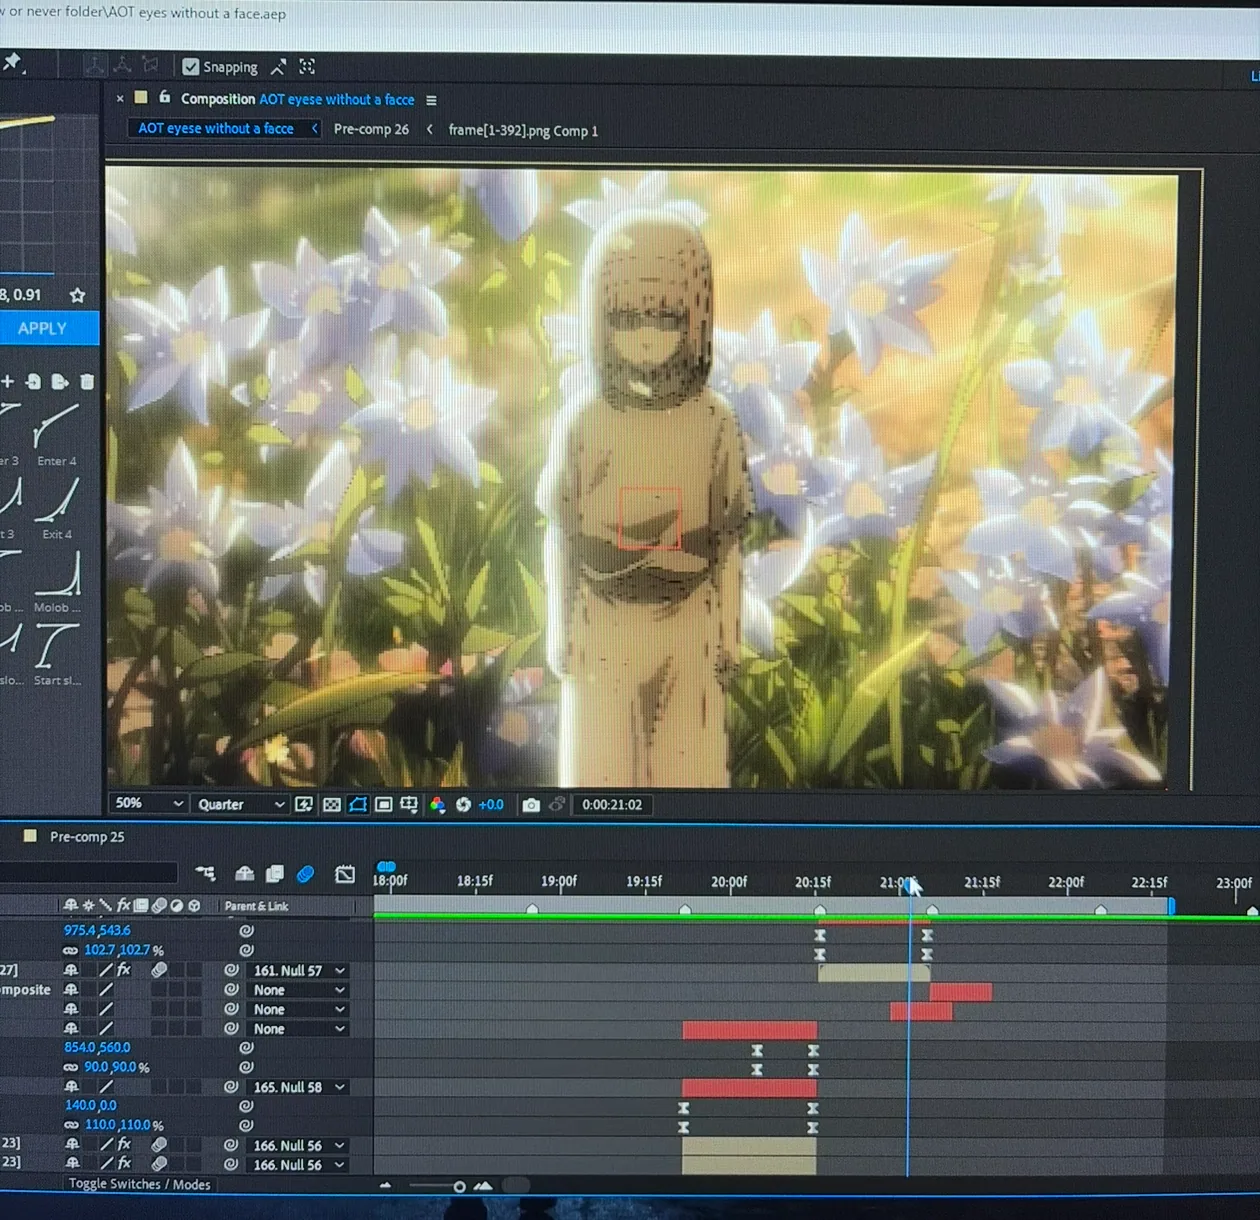
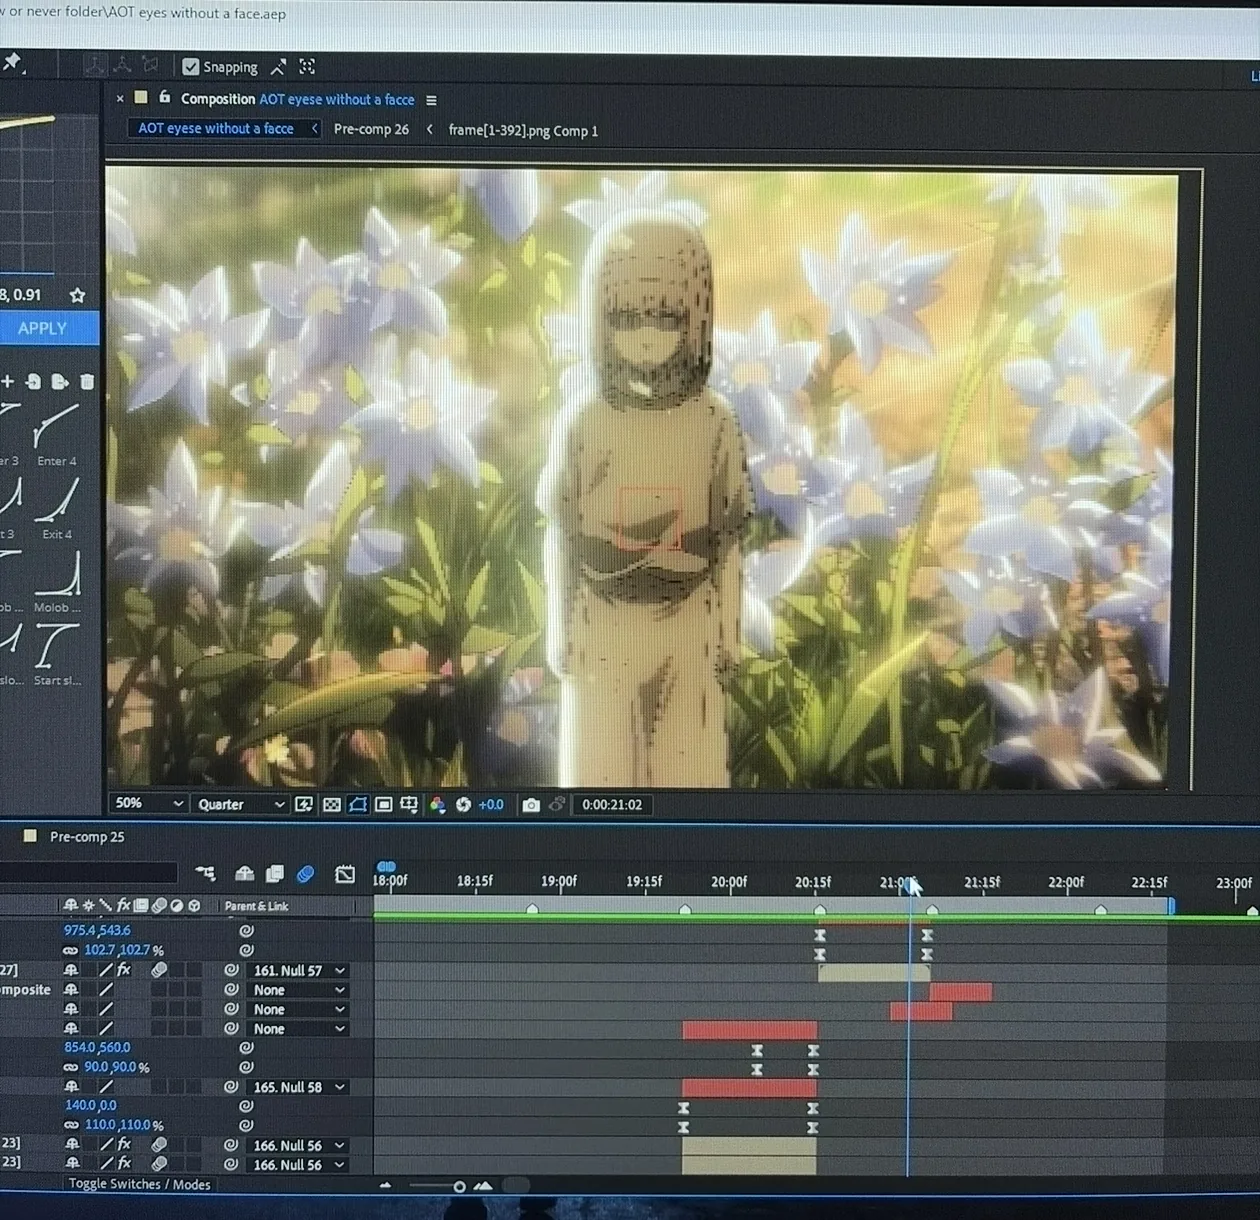
Clean the colour noise out of the After Effects frames
These are phone photos of a monitor, so they carry moire. The obvious fix is
an FFT notch, since moire is periodic and shows up as discrete spikes well off
the centre of the spectrum. I tried it and threw it away. An After Effects
timeline is built almost entirely from straight lines, so its own rules sit in
the same part of the spectrum, and notching them smeared the artwork into
horizontal streaks. Worse than the banding, and the aggressive setting that
looked good on a flat panel region wrecked every frame with real image in it.

What shipped is the part with no structural risk. The rainbow fringing lives
in chroma, and real chroma here is flat fill and broad gradients, so smoothing
Cr and Cb clears the colour speckle and leaves every edge untouched. Luma is
never modified. A light unsharp counters the phone's own softness without
ringing the interface lines.

Costs 57 KB across four frames. Quality 88 was tempting and would have added
360 KB to images that render 200px wide, so they stay at 82, which is what the
optimiser uses anyway.

The script stays in scripts/ with the reasoning, so the next person does not
spend the afternoon rediscovering that the notch is a trap.

diff --git a/scripts/clean-screen-photos.py b/scripts/clean-screen-photos.py
@@ -1,0 +1,41 @@
+"""
+Conservative cleanup for the After Effects frames.
+
+The FFT notch attempt is abandoned here on purpose. Moire is periodic, but so
+is an interface built almost entirely from straight lines, so the spikes the
+notch removed included the timeline's own rules. The result smeared the
+artwork horizontally, which is worse than the banding it fixed.
+
+What is left is the part that carries no structural risk. Rainbow fringing
+lives in chroma, and real chroma in these frames is flat UI fill and broad
+gradients, so smoothing Cr and Cb takes the colour noise out and leaves every
+edge where it was. Luma is untouched.
+"""
+import cv2
+import numpy as np
+
+A = "/Users/alitleis/.t3/userdata/attachments/239651e7-a47e-459b-9482-9bc57c886d7d-"
+JOBS = [
+    ("eye-edit",     A + "c63c4ca9-5abd-4f6c-b7a3-0bafe9caca57.png", (0, 960, 1260, 945)),
+    ("rengoku-edit", A + "4bf1728d-e8da-4667-a4a3-9d023eb2fa0c.png", (30, 1175, 1210, 908)),
+    ("eye-flow",     A + "00dba196-3c8c-481d-9875-b65fb0dea18e.png", (0, 1070, 1260, 990)),
+    ("eye-flowers",  A + "ccfc8e9d-efc5-46e1-a2e9-52b21346bb93.png", (0, 880, 1260, 1220)),
+]
+
+for name, src, (x, t, w, h) in JOBS:
+    img = cv2.imread(src, cv2.IMREAD_COLOR)
+    ycc = cv2.cvtColor(img, cv2.COLOR_BGR2YCrCb).astype(np.float32)
+    y, cr, cb = cv2.split(ycc)
+
+    cr = cv2.GaussianBlur(cr, (0, 0), 3.0)
+    cb = cv2.GaussianBlur(cb, (0, 0), 3.0)
+
+    out = cv2.cvtColor(cv2.merge([y, cr, cb]).astype(np.uint8), cv2.COLOR_YCrCb2BGR)
+
+    # Enough to counter the phone's own softness, not enough to ring the
+    # high-contrast UI lines.
+    blur = cv2.GaussianBlur(out, (0, 0), 0.9)
+    out = cv2.addWeighted(out, 1.22, blur, -0.22, 0)
+
+    cv2.imwrite(f"/tmp/demoire/s-{name}.png", out[t:t + h, x:x + w])
+    print(f"{name}: chroma smoothed, luma untouched")
